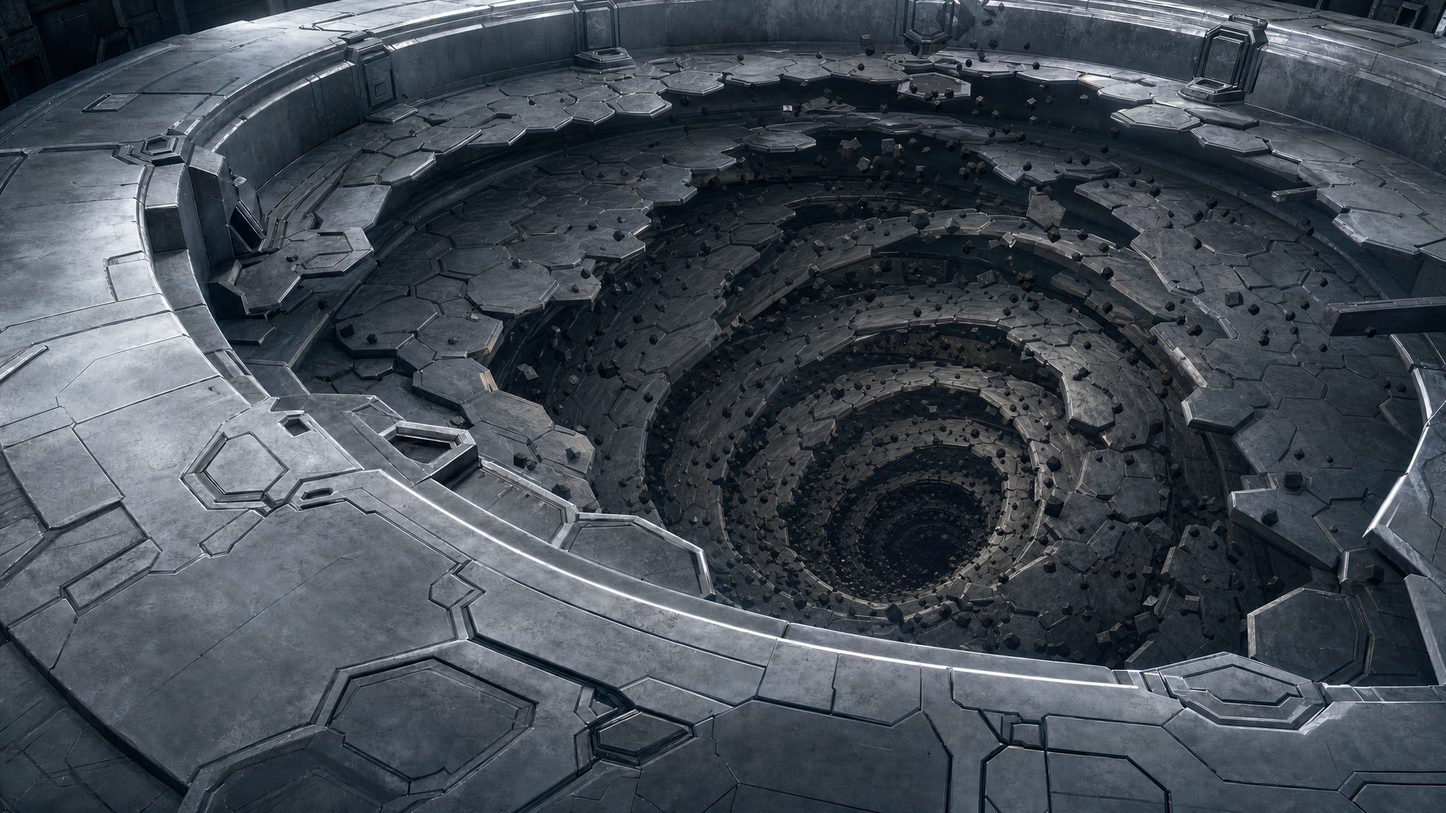
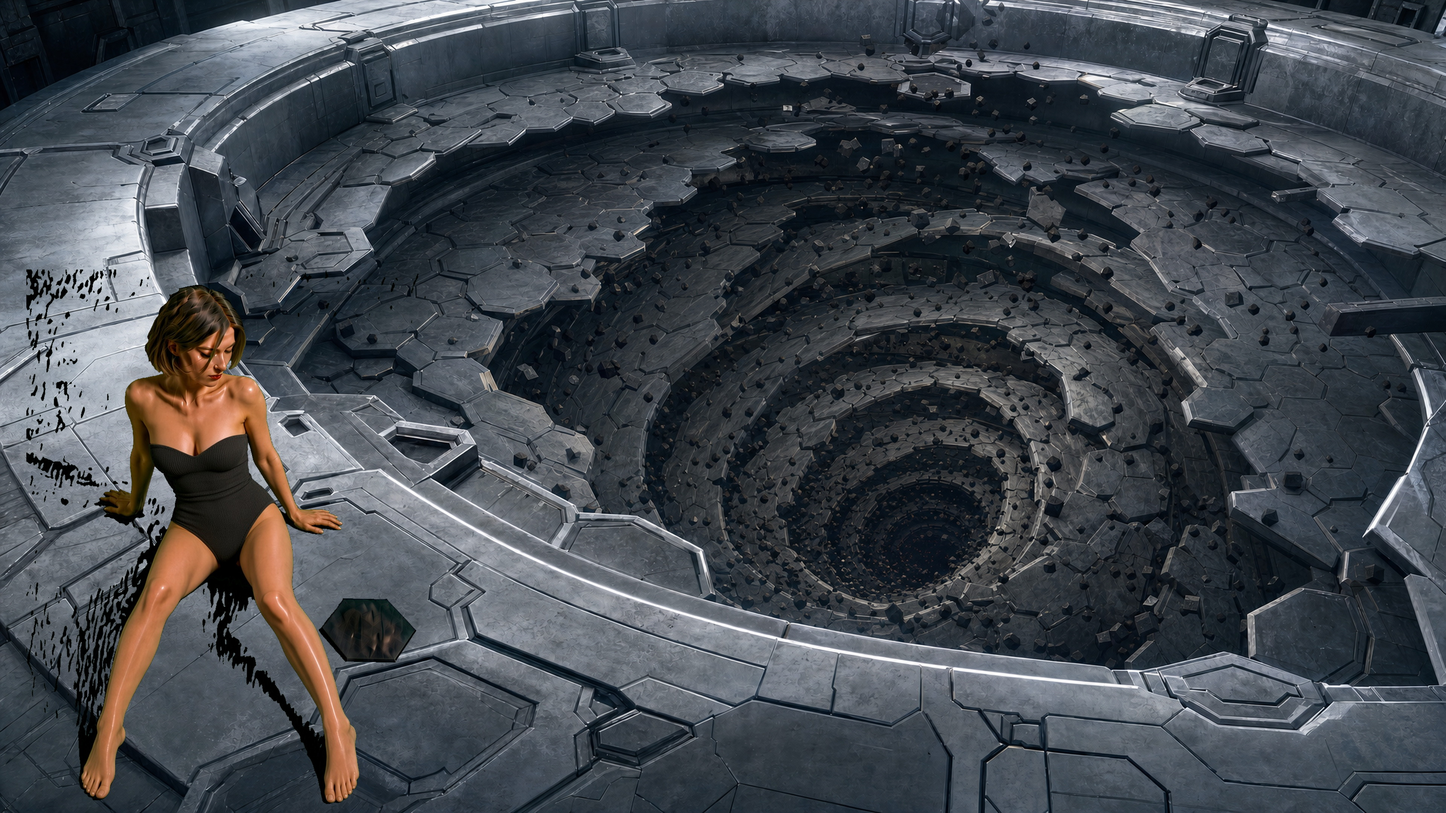
Add the liquid-geo-temple hour 20 figure.

Changed region(s): [[0.0, 0.3412, 0.2812, 0.9926]]

diff --git a/images/liquid-geo-temple/README.md b/images/liquid-geo-temple/README.md
@@ -76,7 +76,7 @@ actor faces, readable UI, or logos. `krypton-liquid-geo.md` and
 
 ### 已接受的 19–20 空景（2026-10-02）
 
-`19-v2.png` 呈現井上的巨大不對稱重構拱；`20-v2.png` 呈現六角板層逐層瓦解、向深渦心下降。兩張皆由模型直接輸出 `2048×1152` sRGB PNG、high 品質，保留近處承載面。試作、前代與提示保存在 `_trials/`；詳見 [檢視紀錄](_trials/19-20-scenes-review.md)。使用者已接受兩張設計；正式 `19.jpg`＝`_trials/19-v2.jpg`、`20.jpg`＝`_trials/20-v2.jpg`，皆依整合流程放大為 `3840×2160` sRGB JPG、quality 92，來源並非原生 4K。舊 19–21 已備份，21 拆成獨立檔並保留原畫面；16–18 的空景保持已接受版本。16 的正式檔已放入 `v11` 人物；17 的正式檔已放入 `v7` 人物；18 的正式檔已放入 `v7` 人物；19 的正式檔已放入 `v46` 人物；20 仍是空景。
+`19-v2.png` 呈現井上的巨大不對稱重構拱；`20-v2.png` 呈現六角板層逐層瓦解、向深渦心下降。兩張皆由模型直接輸出 `2048×1152` sRGB PNG、high 品質，保留近處承載面。試作、前代與提示保存在 `_trials/`；詳見 [檢視紀錄](_trials/19-20-scenes-review.md)。使用者已接受兩張空景；空景 `19` 原為 `_trials/19-v2.jpg`、空景 `20` 原為 `_trials/20-v2.jpg`，皆依整合流程放大為 `3840×2160` sRGB JPG、quality 92，來源並非原生 4K。舊 19–21 已備份，21 拆成獨立檔並保留原畫面；16–18 的空景保持已接受版本。16 的正式檔已放入 `v11` 人物；17 的正式檔已放入 `v7` 人物；18 的正式檔已放入 `v7` 人物；19 的正式檔已放入 `v46` 人物；20 的正式檔已放入 `v50` 人物。空景 `20` 備份在 `_trials/20-before-character.jpg`。
 
 ### 16 人物（2026-10-02，已接受 `v11`）
 
@@ -93,6 +93,10 @@ actor faces, readable UI, or logos. `krypton-liquid-geo.md` and
 ### 19 人物（2026-10-08，已接受 `v46`）
 
 正式 `19.jpg` 以踏面高度重畫重構拱，人坐在拱的左側。靠粒子流的那一側，從手臂到髖是淺瓷；胸的中央是金黃六角片。靠近金塊的那條腿沿踏面伸出。大腿和小腿的褲襪偏透，高光偏亮。兩腳沒有鞋，腳趾在褲襪外面。來源 `_trials/19-v46.jpg`（`1280×720`），正式檔放大為 `_trials/19-v46-4k.jpg` 與 `19.jpg`，`3840×2160` sRGB、quality 92，來源低於 `2048×1152`。空景備份 `_trials/19-before-character.jpg`。`v40` 的包趾尼龍與 `v41` 的近腳打光不採用。
+
+### 20 人物（2026-10-13，已接受 `v50`）
+
+正式 `20.jpg` 以已接受的空景渦緣為底，人坐在近處石緣左側，不擋渦心。冷灰棕齊到下頜，嘴閉著，視線向下。石墨無袖的領口中間淺凹，胸的下弧仍在片內，腰和髖仍是同一件針織。兩腿從髖到腳趾是一層膜，高光比手臂亮。沒有鞋，腳趾仍在膜裡。雙手在髖兩側撐著，上身比 `v49` 更直。髖旁石上有一塊槍灰六角板。人物來源約 `864×1152`，貼成 `_trials/20-v50.jpg` 與 `20.jpg`，`3840×2160` sRGB、quality 92，來源低於 `2048×1152`。空景備份 `_trials/20-before-character.jpg`。外側有去背殘邊。`v49` 與 `v50` 很近：`v50` 靠渦的手更貼髖，兩肩更平，領口的凹較淺。
 
 ---
 
@@ -266,7 +270,7 @@ Still [ceiling so it does not overshoot].
 | `17` | 胸片滑離近側那側胸：下弧與乳心露出；遠側仍在片內。 | 側坐環緣，腿走長邊，琥珀光掃腿。髮散在近側肩。看核心或踏面。 | 遠側胸仍在片內。 |
 | `18` | 胸片落到手肘或踏階上，像掉下來的環片。雙胸下弧與乳心都在畫面裡。髖上沒有布。 | 坐或靠在近處踏階，看暗紅井。髮全散。頭在牆下，腳在踏面。 | 腿上仍有膚色乾透膜到大腿上段。井裡的暗紅不鋪到皮膚上。 |
 | `19` | 三角上的膜沉積掉了：三角是與腰相同的裸膚，形狀入鏡。 | 正面微側，雙膝分開，整個人一起轉。看鏡頭。這是對 `13` 的回扣。髮披肩。 | 襪仍從鞋口到大腿上段。廳與踏面還在，不拉成三角特寫。 |
-| `20` | 胸片躺在石緣上，不再穿。一側襪卷到膝，另一側仍到大腿上段。 | 坐渦緣，雙膝沿石環分開，看渦心。一綹髮垂進臉側。 | 鞋還在。身體在緣上讀得見；被吞掉的是坑裡的光。 |
+| `20` | **已接受 `v50`。** 石墨無袖，領口中間淺凹，下弧仍在片內。腰和髖仍是同一件針織。兩腿從髖到腳趾是一層膜，高光比手臂亮。 | 坐近處石緣左側，兩膝分開，上身較直。看下方。冷灰棕齊到下頜。 | 沒有鞋，腳趾仍在膜裡。髖旁石上有一塊槍灰六角板。渦心仍暗。 |
 
 ### 開衩不是一個數字
 
@@ -299,7 +303,7 @@ Still [ceiling so it does not overshoot].
 | `17` | 多重重力廳，翻起地面與展開平台 | 側坐左側地面，一腿伸出、另一膝彎著；近側手抬到頭旁 | 看上方軌道 | 霜銀片仍蓋住近側，開口在背。一綹髮橫過抬起的手 | **已接受 `v7`。** 正式 `17.jpg`＝`_trials/17-v7-4k.jpg`，底是 `17-v3` 空景。 |
 | `18` | 踏面高度的井口，井外明亮，暗紅只在重力井 | 坐左側踏階，兩膝彎著，雙手撐在踏面 | 看鏡頭 | 米色橫帶蓋住胸的下弧。淺色褲襪蓋住髖和腿。踏面前方一小圈六角環。兩側畫成桌面圖示 | **已接受 `v7`。** 正式 `18.jpg`＝`_trials/18-v7-4k.jpg`。來源 `1280×720`。空景備份 `_trials/18-before-character.jpg`。 |
 | `19` | 踏面高度的重構拱，拱身霧黑，右側金黃六角粒子流 | 坐在拱的左側，靠近金塊的那條腿沿踏面伸出 | 看粒子流 | 靠粒子流的一側從手臂到髖是淺瓷；胸中央是金黃六角片。褲襪偏透。沒有鞋，腳趾在褲襪外面 | **已接受 `v46`。** 正式 `19.jpg`＝`_trials/19-v46-4k.jpg`。來源 `1280×720`。空景備份 `_trials/19-before-character.jpg`。 |
-| `20` | 塌縮渦緣；緣上的身體讀得見，坑可以暗 | 坐渦緣，雙膝沿石環分開 | 看渦 | 胸片躺在石緣；一側襪卷到膝 | **空景已接受。** 正式 `20.jpg`＝`_trials/20-v2.jpg`。人物待加入。 |
+| `20` | 塌縮渦緣；緣上的身體讀得見，坑可以暗 | 坐近處石緣左側，兩膝分開，上身較直 | 看下方 | 石墨領口中間淺凹，下弧仍蓋住。膜從髖蓋到腳趾。沒有鞋 | **已接受 `v50`。** 正式 `20.jpg`＝`_trials/20-v50.jpg`。來源約 `864×1152`。空景備份 `_trials/20-before-character.jpg`。 |
 | `21` | 同渦 | 渦緣背四分之三站 | 不看鏡頭 | 臀下弧 | 已拆為獨立檔，保留舊 20 空景；新場景與人物待設計。 |
 | `22` | 餘波沉積粒子床、半埋核心弧 | 側坐 | 看半埋弧 | 下襬騎到大腿上段 | 空景 `22.jpg` |
 | `23` | 同沉積廳 | 背影走入暗處 | 不看鏡頭 | 臀下弧 | symlink→`22`，將拆 |
